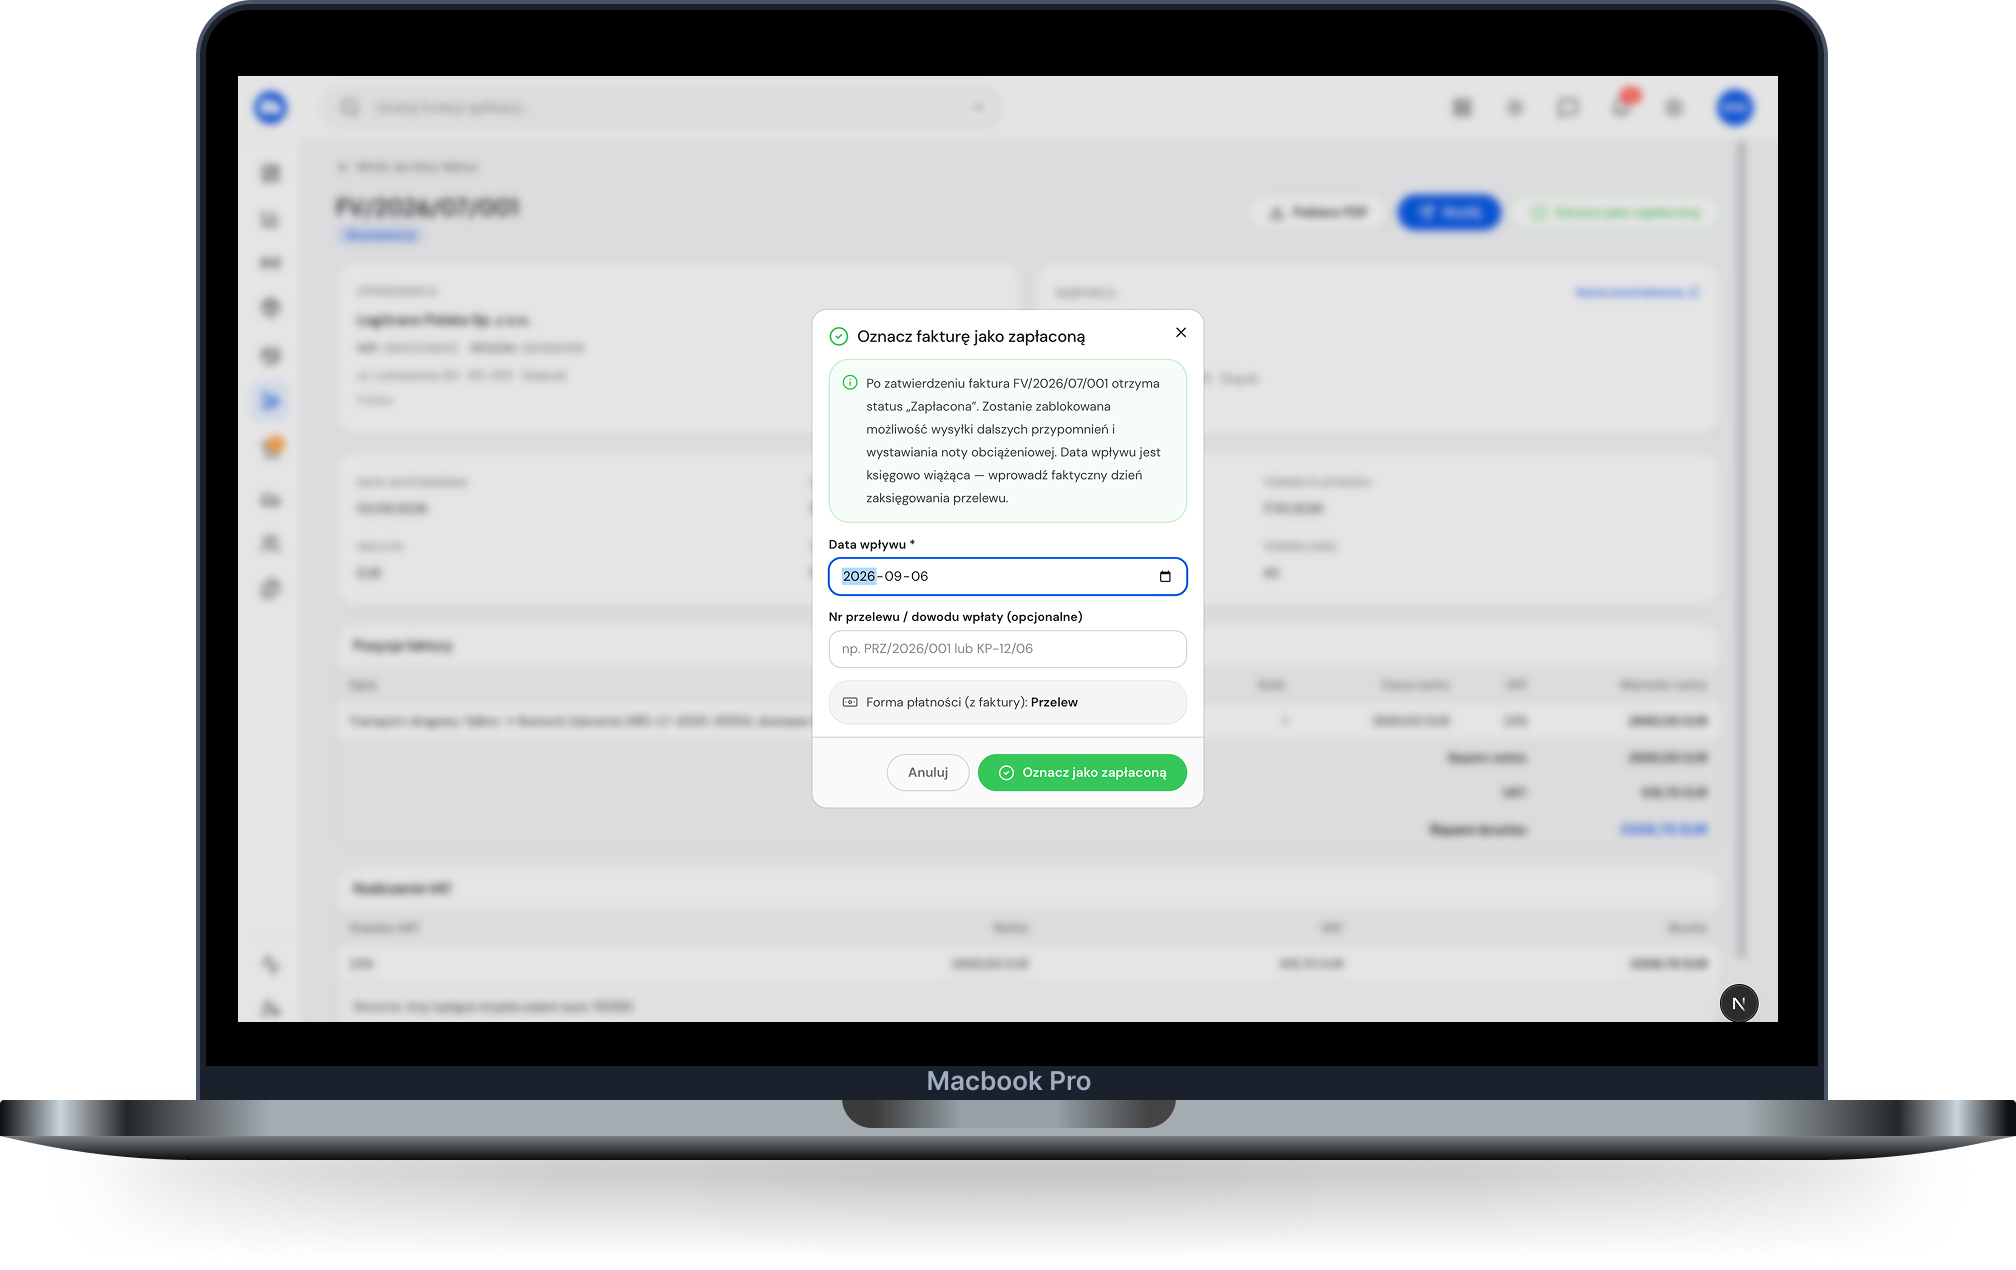
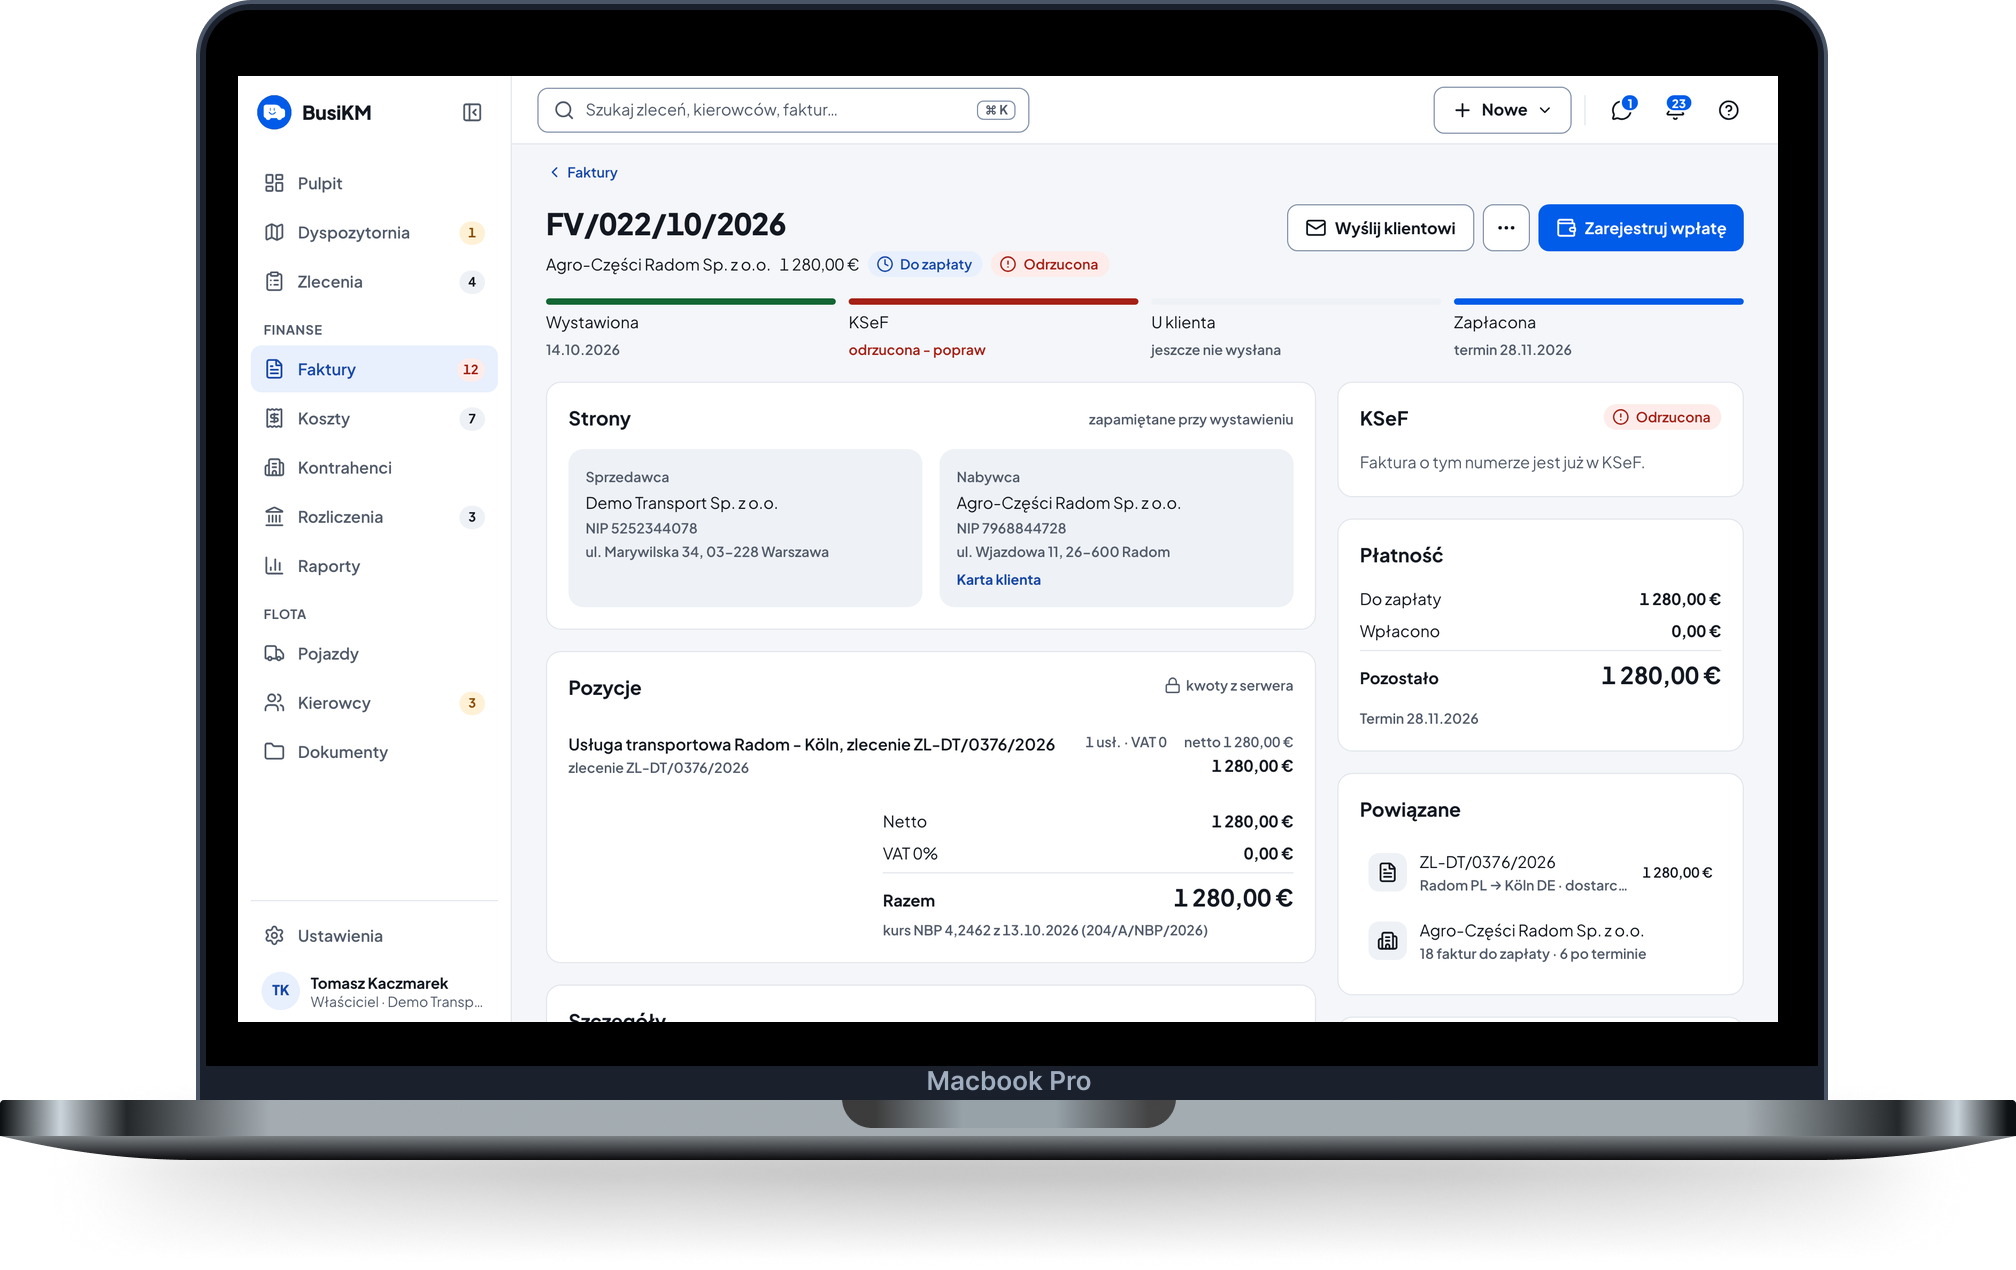
feat(landing): makiety desktop z aplikacji v2
Wszystkie 24 makiety desktop to teraz zrzuty prawdziwych ekranów BusiKM v2
na danych demo, w tej samej ramce MacBooka co dotąd. Ekrany dobrane pod
treść sekcji: dyspozytornia, karta zlecenia z finansami, okno wysyłki
faktury, wybór wariantu trasy, DrivePulse, zamknięcie miesiąca u księgowej,
płace i diety. Makiety opisane jako „tryb nocny” są w ciemnym motywie.

Sekcja „Zlecenie → faktura” traci powiększenie 1,5/1,9 dobrane pod dawny
plik z monitorem na kwadratowym płótnie — nowy zrzut wypełnia kadr sam.

Narzędzia do odświeżenia kompletu w landing/scripts/mockupy: lista widoków
dla skryptu zrzutów z busikm-video, ramka i skrypt wkładający zrzuty w ramkę.
Instrukcja w public/mockups/README.md.

diff --git a/landing/src/components/sections/ZlecenieFaktura.tsx b/landing/src/components/sections/ZlecenieFaktura.tsx
@@ -56,27 +56,16 @@ export function ZlecenieFaktura() {
         </div>
 
         {/*
-          Odstęp u góry tylko na telefonie. Powiększenie działa w obie strony,
-          więc przy skali 1,9 zrzut wychodzi ponad swoje pudło o 110 px.
-          Sam monitor zaczyna się jednak niżej — nad nim jest pusty margines
-          pliku — i wystarcza `mt-20`, czyli 80 px, żeby nie nachodził
-          na listę powyżej.
+          Zrzut v2 stoi w tej samej ramce laptopa co reszta strony i wypełnia
+          szerokość kadru, więc nie potrzebuje powiększenia. Poprzedni plik
+          był monitorem na kwadratowym płótnie — stąd dawne skale 1,5 i 1,9.
         */}
-        <div data-reveal className="mt-20 lg:order-1 lg:mt-0">
+        <div data-reveal className="lg:order-1">
           <MockupSlot
             file="mockup-faktury-zlecenie-desktop.png"
             label={t.label}
             note={t.opis}
             ratio="4:3"
-            imageScale={1.5}
-            // Na telefonie zrzut wychodzi poza kolumnę tekstu, aż na pełną
-            // szerokość ekranu — inaczej pulpit jest nieczytelnie mały.
-            //
-            // 1,9 wyliczone tak, żeby nic nie zostało ucięte. Sama ramka
-            // monitora zajmuje 58% szerokości kadru — reszta to podstawka
-            // i pusty margines pliku — więc przy pudle 327 px daje to 361 px
-            // z 375 dostępnych, czyli po 7 px zapasu z każdej strony.
-            imageScaleTelefon={1.9}
           >
             <ZlecenieFakturaMockup />
           </MockupSlot>

diff --git a/landing/scripts/mockupy/wstaw-w-ramke.py b/landing/scripts/mockupy/wstaw-w-ramke.py
@@ -1,0 +1,24 @@
+"""Wkłada zrzuty 1440x900@2x w ramkę MacBooka i zapisuje je jako makiety 2016x1270.
+
+    python3 scripts/mockupy/wstaw-w-ramke.py scripts/mockupy/ramka-macbook.png <katalog-zrzutow> public/mockups
+
+Zrzut `<nazwa>.png` trafia do `mockup-<nazwa>-desktop.png`. Ekran w ramce ma
+1540x946 px od punktu (238, 76); zrzut 16:10 jest skalowany do szerokości
+ekranu, a nadmiar (16 px) odcinany z dołu. Ramka ma w środku stary ekran —
+skrypt zawsze go zakrywa.
+"""
+import sys, os
+from PIL import Image
+frame_path, src_dir, out_dir = sys.argv[1:4]
+X, Y, SW, SH = 238, 76, 1540, 946
+frame = Image.open(frame_path).convert('RGBA')
+for f in sorted(os.listdir(src_dir)):
+    if not f.endswith('.png'): continue
+    shot = Image.open(os.path.join(src_dir, f)).convert('RGBA')
+    s = max(SW / shot.width, SH / shot.height)
+    shot = shot.resize((round(shot.width * s), round(shot.height * s)), Image.LANCZOS).crop((0, 0, SW, SH))
+    out = frame.copy()
+    out.paste(shot, (X, Y))
+    name = f'mockup-{f[:-4]}-desktop.png'
+    out.save(os.path.join(out_dir, name), optimize=True)
+    print(name, os.path.getsize(os.path.join(out_dir, name)) // 1024, 'KB')

diff --git a/landing/public/mockups/README.md b/landing/public/mockups/README.md
@@ -72,3 +72,21 @@ rejestracyjne, co w projekcie (`Warszawa → Mediolan`, `WZ 4821K`, `Marek W.`).
 | `mockup-demo-wejscie-desktop.png` | desktop 16:10 | Pulpit demo z paskiem „To jest demo” u góry |
 
 Podstrony trzymają ten sam schemat. Pełna lista powstaje razem z projektami.
+
+## Odświeżenie zrzutów desktop z aplikacji v2
+
+Zrzuty desktop pochodzą z lokalnie uruchomionego busikm-web na danych demo
+(`seed_demo_company`) i są wkładane w tę samą ramkę MacBooka. Gdy aplikacja
+się zmieni, cały komplet odświeża się w dwóch krokach:
+
+1. W repo `busikm-video` skopiuj `landing/scripts/mockupy/zrzuty-v2.json`
+   do `videos/_landing-mockupy.json` i uruchom
+   `npm run capture -- _landing-mockupy` (wymaga busikm-web na :3000,
+   backendu na :8001 i hasła kont demo w `.env`). Lista widoków mówi, który
+   ekran aplikacji trafia do której makiety — `id` to nazwa pliku bez
+   `mockup-` i `-desktop`.
+2. Tutaj:
+   `python3 scripts/mockupy/wstaw-w-ramke.py scripts/mockupy/ramka-macbook.png ../../busikm-video/public/captures/_landing-mockupy public/mockups`
+
+Makiety z dopiskiem „tryb nocny” w etykiecie są robione w ciemnym motywie
+aplikacji (`"theme": "dark"` w widoku), reszta w jasnym.
